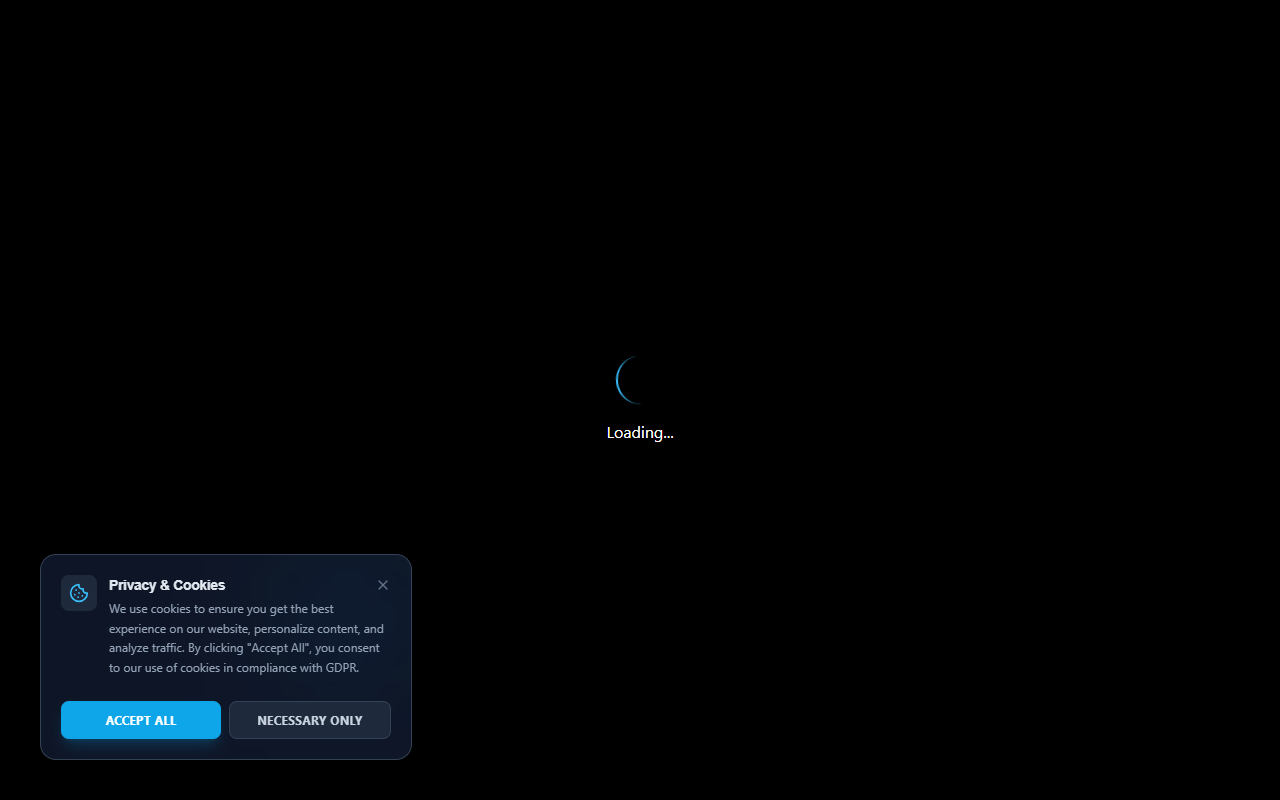
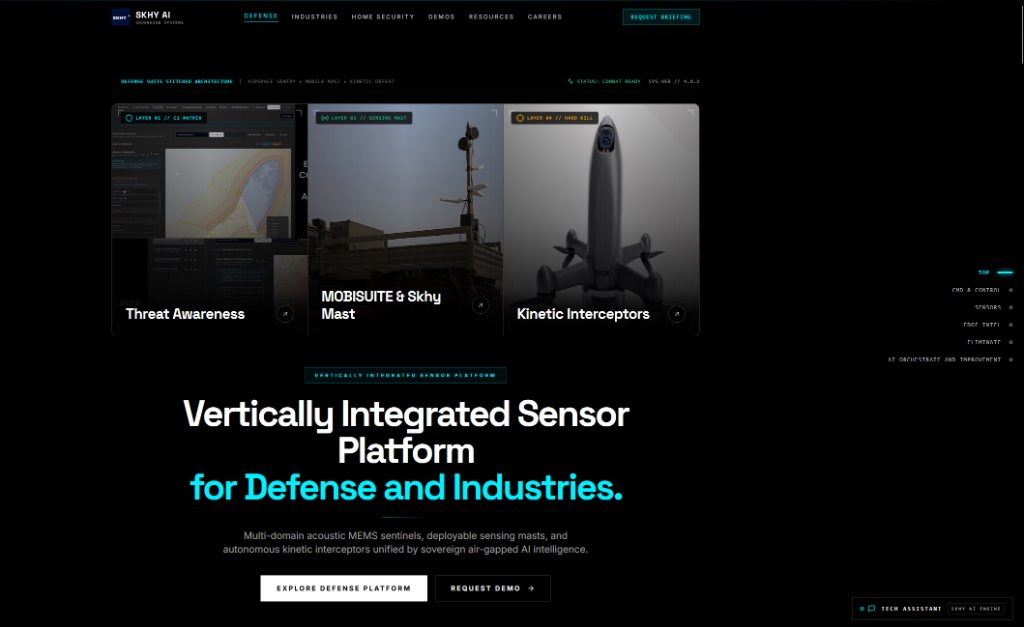
Add real Skhy Systems uploaded thumbnail and 25% Christmas bundle pricing

diff --git a/src/routes/services.tsx b/src/routes/services.tsx
@@ -16,6 +16,9 @@ import {
   Terminal,
   Activity,
   FileCode,
+  Gift,
+  Tag,
+  Percent,
 } from "lucide-react";
 
 export const Route = createFileRoute("/services")({
@@ -79,6 +82,123 @@ function ServicesPage() {
             AI, security hardening, and high-concurrency architectures.
           </p>
         </div>
+
+        {/* ── Christmas Offer: 25% Off Total Bundle Pricing ── */}
+        <section
+          id="christmas-offer"
+          className="rounded-2xl border-2 border-border/90 bg-gradient-to-b from-card via-card/80 to-background p-6 sm:p-10 space-y-8 shadow-2xl relative overflow-hidden"
+        >
+          {/* Background festive glow */}
+          <div className="pointer-events-none absolute -top-24 right-1/4 h-64 w-64 rounded-full bg-foreground/5 blur-3xl" />
+
+          <div className="flex flex-col lg:flex-row lg:items-end justify-between gap-4 border-b border-border/80 pb-6 relative">
+            <div className="space-y-2 max-w-2xl">
+              <div className="inline-flex items-center gap-2 rounded-full border border-border bg-secondary px-3.5 py-1 text-xs font-mono text-muted-foreground">
+                <Gift className="h-3.5 w-3.5 text-foreground animate-bounce" />
+                <span>{COMPANY_INFO.pricing.christmasOffer.badge}</span>
+              </div>
+              <h2 className="text-2xl sm:text-3xl font-bold tracking-tight text-foreground">
+                {COMPANY_INFO.pricing.christmasOffer.title}
+              </h2>
+              <p className="text-xs sm:text-sm text-muted-foreground leading-relaxed">
+                Save <strong>25% on the total contract value</strong> when procuring our
+                comprehensive engineering suites as bundled offerings.{" "}
+                {COMPANY_INFO.pricing.christmasOffer.validNotice}.
+              </p>
+            </div>
+
+            <div className="rounded-lg border border-border/80 bg-background/80 px-4 py-3 text-right hidden sm:block">
+              <div className="text-[10px] font-mono uppercase tracking-wider text-muted-foreground">
+                Special Incentive
+              </div>
+              <div className="text-xl font-bold font-mono text-foreground flex items-center justify-end gap-1">
+                <Percent className="h-4 w-4 text-emerald-400" />
+                <span>25% Instant Reduction</span>
+              </div>
+            </div>
+          </div>
+
+          {/* 3 Bundle Cards */}
+          <div className="grid grid-cols-1 lg:grid-cols-3 gap-6 relative">
+            {COMPANY_INFO.pricing.christmasOffer.bundles.map((bundle) => (
+              <div
+                key={bundle.id}
+                className={`rounded-xl border p-6 flex flex-col justify-between card-hover relative bg-card ${
+                  bundle.id === "master-bundle"
+                    ? "border-foreground/40 shadow-lg ring-1 ring-border/80"
+                    : "border-border/80"
+                }`}
+              >
+                <div className="space-y-4">
+                  <div className="flex items-center justify-between">
+                    <span className="rounded-sm bg-secondary px-2.5 py-0.5 text-[10px] font-mono uppercase tracking-wider text-muted-foreground">
+                      {bundle.tierBadge}
+                    </span>
+                    <span className="rounded-full bg-emerald-500/10 border border-emerald-500/30 px-2 py-0.5 text-[10px] font-mono text-emerald-400 font-semibold">
+                      Save RM {bundle.savingsMYR}
+                    </span>
+                  </div>
+
+                  <div>
+                    <h3 className="text-lg font-bold text-foreground">{bundle.title}</h3>
+                    <p className="mt-1 text-xs text-muted-foreground leading-relaxed">
+                      {bundle.description}
+                    </p>
+                  </div>
+
+                  {/* Pricing Display with Strike-through */}
+                  <div className="rounded-lg border border-border/60 bg-background/60 p-3.5 space-y-1">
+                    <div className="flex items-center justify-between text-xs text-muted-foreground">
+                      <span>Regular Unbundled Total:</span>
+                      <span className="line-through font-mono text-xs">
+                        RM {bundle.unbundledTotalMYR}
+                      </span>
+                    </div>
+                    <div className="flex items-baseline justify-between pt-1">
+                      <span className="text-xs font-mono font-medium text-foreground">
+                        Christmas Bundle:
+                      </span>
+                      <span className="text-2xl sm:text-3xl font-bold font-mono text-foreground">
+                        RM {bundle.discountedPriceMYR}
+                      </span>
+                    </div>
+                    <div className="text-[10px] font-mono text-emerald-400 text-right">
+                      Includes 25% discount on total
+                    </div>
+                  </div>
+
+                  {/* Deliverables Checklist */}
+                  <div className="space-y-2 pt-2">
+                    <span className="text-[10px] font-mono uppercase text-muted-foreground block">
+                      Suite Inclusions:
+                    </span>
+                    <ul className="space-y-1.5 text-xs text-muted-foreground">
+                      {bundle.includedServices.map((service, idx) => (
+                        <li key={idx} className="flex items-start gap-2">
+                          <CheckCircle2 className="h-3.5 w-3.5 text-foreground shrink-0 mt-0.5" />
+                          <span>{service}</span>
+                        </li>
+                      ))}
+                    </ul>
+                  </div>
+                </div>
+
+                <div className="mt-6 pt-4 border-t border-border/60">
+                  <Link to="/contact">
+                    <Button
+                      size="sm"
+                      variant={bundle.id === "master-bundle" ? "default" : "outline"}
+                      className="w-full text-xs font-medium"
+                    >
+                      Lock in 25% Bundle Rate
+                      <ArrowRight className="ml-1.5 h-3.5 w-3.5" />
+                    </Button>
+                  </Link>
+                </div>
+              </div>
+            ))}
+          </div>
+        </section>
 
         {/* ── Tier 1: Core / Growth Engineering ── */}
         <section className="space-y-8">

diff --git a/src/lib/company-info.ts b/src/lib/company-info.ts
@@ -392,6 +392,68 @@ export const COMPANY_INFO = {
           "Priority 24/7 technical advisory, rapid incident response, and active architectural reviews.",
       },
     ],
+
+    // Christmas & Year-End Bundle Offers (25% Total Discount)
+    christmasOffer: {
+      title: "Christmas & Year-End Institutional Bundle Offer",
+      badge: "25% Off Total • Christmas Offer",
+      discountPercentage: 25,
+      validNotice: "Valid for Q4 / Year-End Engagements Initiated by Dec 31",
+      bundles: [
+        {
+          id: "core-bundle",
+          title: "Complete Core & Growth Engineering Suite",
+          tierBadge: "Tier 1 Bundle",
+          unbundledTotalMYR: "9,200",
+          discountedPriceMYR: "6,900",
+          savingsMYR: "2,300",
+          description:
+            "End-to-end commercial web and transaction stack: responsive custom web app, Stripe customer portal and billing, normalized database architecture, OAuth/JWT access control, and modular educational courseware.",
+          includedServices: [
+            "Website & Web Application Development (RM 3,000)",
+            "Stripe & Payment Gateway Integration (RM 1,200)",
+            "Database Architecture & Integration (RM 1,800)",
+            "Authentication & Access Control (RM 1,200)",
+            "Educational Courseware & Tutorial Labs (RM 2,000)",
+          ],
+          highlight: "Ideal for Startups & Fast-Scaling Tech Ventures",
+        },
+        {
+          id: "enterprise-bundle",
+          title: "Complete Mission-Grade Enterprise Suite",
+          tierBadge: "Tier 2 Bundle",
+          unbundledTotalMYR: "24,500+",
+          discountedPriceMYR: "18,375+",
+          savingsMYR: "6,125+",
+          description:
+            "Institutional sovereign architecture: mission-grade cross-platform application, multi-currency bilateral financing rails, high-scale distributed pgvector database clustering, enterprise SAML SSO + Kyber post-quantum cryptography, and interactive simulation training LMS.",
+          includedServices: [
+            "Mission-Grade Web & Desktop Platforms (RM 8,500+)",
+            "Global Multi-Currency & Bilateral Financing Rails (RM 3,500+)",
+            "High-Scale Database Clustering & Vector Stores (RM 4,500+)",
+            "Enterprise SSO & Post-Quantum Security Hardening (RM 3,000+)",
+            "Full-Scale Interactive Simulation LMS (RM 5,000+)",
+          ],
+          highlight: "Engineered for Sovereign Defense, Banking & Deep-Tech",
+        },
+        {
+          id: "master-bundle",
+          title: "Dual-Tier Sovereign Master Suite (Both Offerings Combined)",
+          tierBadge: "Core + Enterprise All-Inclusive",
+          unbundledTotalMYR: "33,700+",
+          discountedPriceMYR: "25,275+",
+          savingsMYR: "8,425+",
+          description:
+            "Complete technical engagement combining both Tier 1 Core and Tier 2 Enterprise capabilities with dedicated architecture reviews, production deployment hardening, and zero-cloud-egress guarantees.",
+          includedServices: [
+            "All 5 Core Growth modules (Web App, Stripe, DB, Auth, Courseware)",
+            "All 5 Enterprise Mission systems (Platform, Financing, Vector DB, SAML/PQC, Sim LMS)",
+            "Dedicated mission engineering SLA & priority milestone delivery",
+          ],
+          highlight: "Maximum Sovereign Assurance (Save RM 8,425+)",
+        },
+      ],
+    },
   },
 
   // Open Source Governance & Notice

diff --git a/src/routes/index.tsx b/src/routes/index.tsx
@@ -19,6 +19,7 @@ import {
   ArrowUpRight,
   Sparkles,
   ChevronRight,
+  Gift,
 } from "lucide-react";
 
 export const Route = createFileRoute("/")({
@@ -520,6 +521,31 @@ function IndexPage() {
               </ul>
             </div>
           ))}
+        </div>
+
+        {/* Christmas Bundle Offer Banner */}
+        <div className="rounded-xl border border-border/90 bg-gradient-to-r from-card via-card/70 to-card p-6 flex flex-col md:flex-row items-center justify-between gap-6 card-hover">
+          <div className="space-y-2">
+            <div className="inline-flex items-center gap-2 rounded-full border border-border bg-secondary px-3 py-1 text-xs font-mono text-muted-foreground">
+              <Gift className="h-3.5 w-3.5 text-foreground animate-bounce" />
+              <span>Christmas Offer • 25% Off Total</span>
+            </div>
+            <h3 className="text-xl font-bold text-foreground">
+              Institutional Bundle Pricing for Both Engineering Offerings
+            </h3>
+            <p className="text-xs sm:text-sm text-muted-foreground max-w-2xl leading-relaxed">
+              Procure complete suites with an automatic 25% discount on the total contract:{" "}
+              <strong>Core Growth Suite at RM 6,900</strong> (was RM 9,200),{" "}
+              <strong>Enterprise Mission Suite at RM 18,375+</strong> (was RM 24,500+), or{" "}
+              <strong>Both Offerings Combined at RM 25,275+</strong> (save RM 8,425+).
+            </p>
+          </div>
+          <Link to="/services" hash="christmas-offer" className="shrink-0">
+            <Button size="default" className="text-xs font-semibold">
+              Inspect Christmas Bundles
+              <ArrowRight className="ml-1.5 h-3.5 w-3.5" />
+            </Button>
+          </Link>
         </div>
 
         {/* Enterprise Highlights Strip */}
